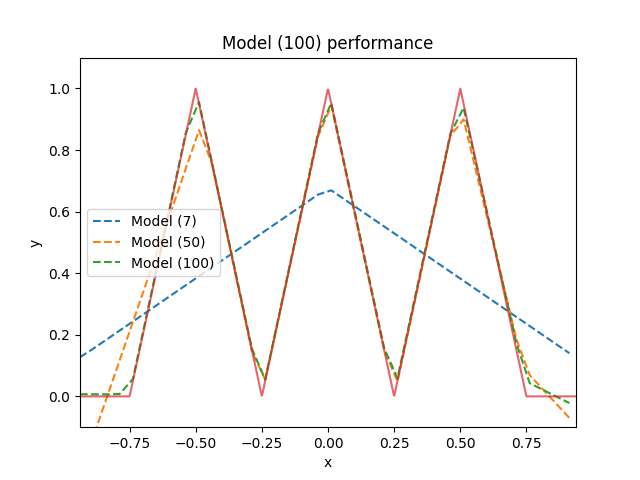
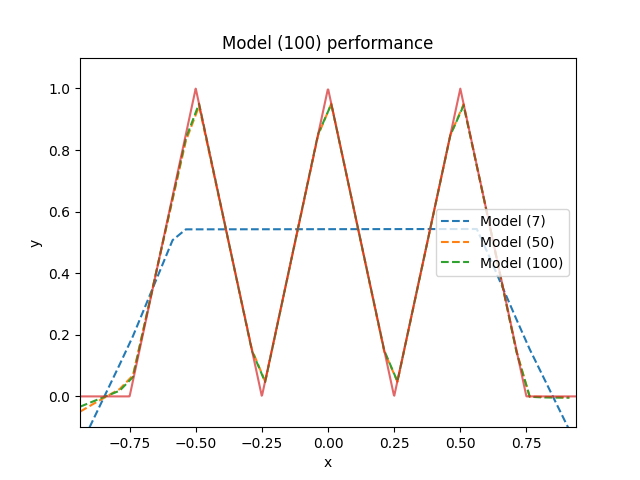
Evonet v1

diff --git a/objects/networks.py b/objects/networks.py
@@ -1,0 +1,132 @@
+import torch
+import torch.nn as nn
+import numpy as np
+import matplotlib.pyplot as plt
+from pathlib import Path
+
+
+class Network(nn.Module):
+    def __init__(self, hidden_size=100):
+        super(Network, self).__init__()
+
+        self.hidden_size = hidden_size
+
+        self.network = nn.Sequential(
+            nn.Linear(1, hidden_size),
+            nn.ReLU(),
+            nn.Linear(hidden_size, 1, bias=False)
+        ) 
+
+        self.train_loss = []
+        self.val_loss = []
+
+    
+    def forward(self, x):
+        return self.network(x)
+
+    
+
+    def plot_performance(self, xlim:int = None):
+        x = np.array([i + 1 for i in range(len(self.train_loss))])
+        if xlim is not None:
+            plt.xlim(1, xlim)
+        
+
+        plt.plot(x, self.train_loss, label="train loss")
+        plt.plot(x, self.val_loss, label="val loss")
+        plt.xlabel('epochs')
+        plt.ylabel('MSE loss')
+        plt.title(f'Network training performance for hidden_dim={self.hidden_size}')
+        plt.legend()
+        plt.show()
+
+
+    def save(self, folder:Path=Path("base_models"), filename:str=None):
+        if filename is None:
+            filename = f"base_{self.hidden_size}.pt"
+        folder.mkdir(parents=True, exist_ok=True)
+        torch.save({
+            'state_dict': self.state_dict(),
+            'train_loss': self.train_loss,
+            'val_loss': self.val_loss
+        }, folder/filename)
+
+
+    def load(self, filepath: Path = None, device='cpu'):
+        if filepath is None:
+            filepath = Path("base_models") / f"base_{self.hidden_size}.pt"
+        checkpoint = torch.load(filepath, map_location=device)
+
+        self.load_state_dict(checkpoint['state_dict'])
+        self.train_loss = checkpoint['train_loss']
+        self.val_loss = checkpoint['val_loss']
+
+
+
+class EvoNet(Network):
+    def __init__(self, hidden_size):
+        super().__init__(hidden_size=hidden_size)
+        
+
+        self.W = self.state_dict()['network.0.weight']
+        self.B = self.state_dict()['network.0.bias']
+        self.A = self.state_dict()['network.2.weight']
+
+        self.neuron_data
+
+
+
+    def drop_neuron(self, index):
+        # Store the current device
+        device = next(self.parameters()).device
+
+        # Move model to CPU for modification
+        self.cpu()
+
+        # Get current state_dict
+        state_dict = self.state_dict()
+
+        # Extract weights and biases
+        W = state_dict['network.0.weight']  # Shape: (hidden_size, 1)
+        B = state_dict['network.0.bias']    # Shape: (hidden_size,)
+        A = state_dict['network.2.weight']  # Shape: (1, hidden_size)
+
+        # Remove the neuron at `index`
+        W_new = torch.cat([W[:index], W[index+1:]])  # Remove row
+        B_new = torch.cat([B[:index], B[index+1:]])  # Remove element
+        A_new = torch.cat([A[:, :index], A[:, index+1:]], dim=1)  # Remove column
+
+        # Update hidden_size
+        new_hidden_size = W_new.shape[0]
+
+        # Reinitialize the network with new shapes
+        self.network = nn.Sequential(
+            nn.Linear(1, new_hidden_size, bias=True),
+            nn.ReLU(),
+            nn.Linear(new_hidden_size, 1, bias=True)
+        )
+
+        # Update state_dict with new weights and biases
+        with torch.no_grad():
+            self.network[0].weight.data = W_new
+            self.network[0].bias.data = B_new
+            self.network[2].weight.data = A_new
+
+        # Update hidden_size attribute
+        self.hidden_size = new_hidden_size
+
+        # Move model back to the original device
+        self.to(device)
+    
+    def calculate_neuron_data(self):
+        bend = -(self.A * self.B.t()) / (self.A * self.W.t())
+
+        coeff = A * W.t()
+
+        neuron_data = torch.stack((bend, coeff), dim=1) 
+        self.neuron_data = neuron_data
+        
+
+        # Example use of getting distances
+        distances = torch.cdist(neuron_data, neuron_data, p=2)
+

diff --git a/utilities/trainer.py b/utilities/trainer.py
@@ -3,7 +3,7 @@ import torch.nn as nn
 import numpy as np
 from IPython.display import clear_output
 
-def base_model_train(model, X_train, y_train, X_val, y_val, epochs=100, lr=0.001, device='cuda', patience=5):
+def base_model_train(model, X_train, y_train, X_val, y_val, epochs=100, lr=0.001, device='cuda', patience=5, drop_neuron=False):
     criterion = nn.MSELoss()
     optimizer = torch.optim.Adam(model.parameters(), lr=lr)
 
@@ -43,4 +43,16 @@ def base_model_train(model, X_train, y_train, X_val, y_val, epochs=100, lr=0.001
                     break
         
         clear_output(wait=True)
+
+        if drop_neuron and model.hidden_size >= 5 and np.random.uniform(0.0, 1.0) >= 0.3 and epoch % 10 == 0:
+            index = np.random.randint(0, model.hidden_size)
+            model.drop_neuron(index)
+            print(f"Droppping {index}")
+            optimizer = torch.optim.Adam(model.parameters(), lr=lr)
         model.plot_performance(epochs)
+
+
+
+
+def evo_model_train():
+    ...